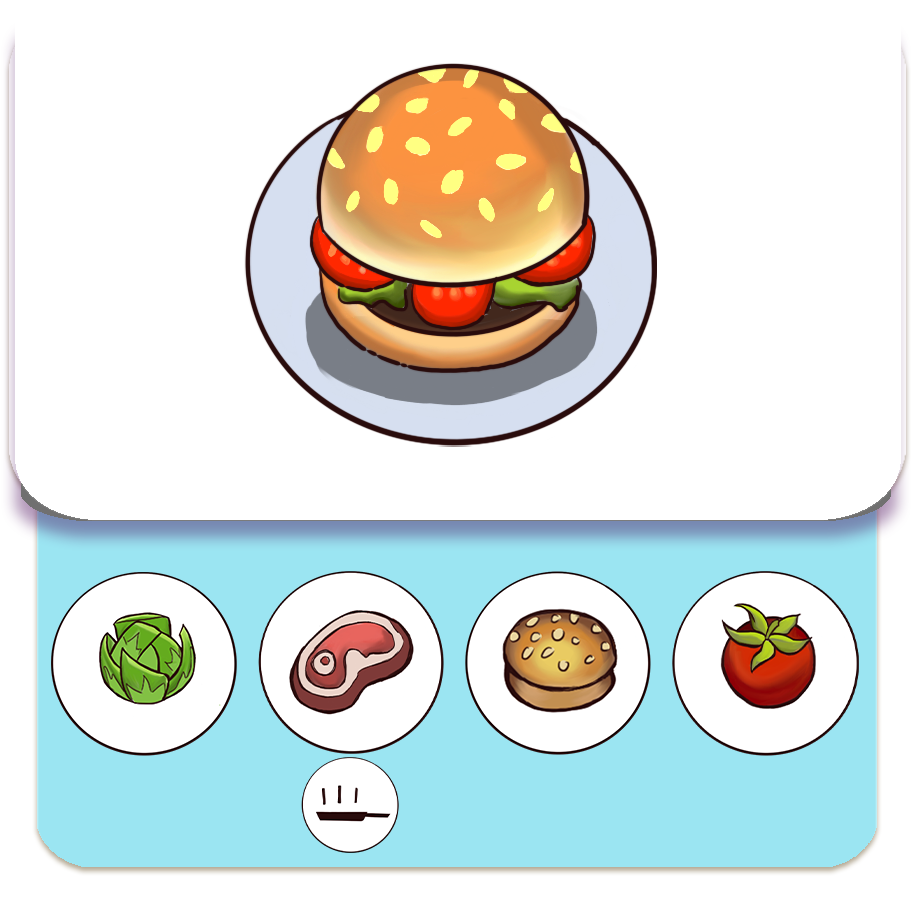
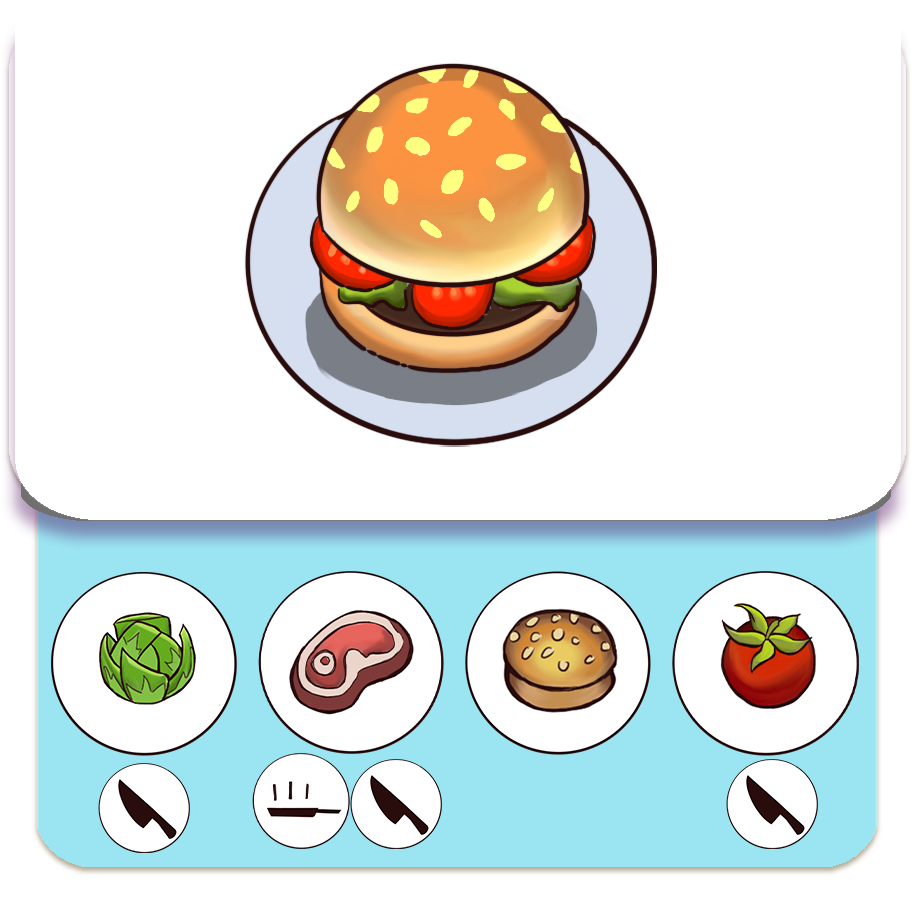
add อะไรวะ

Changed region(s): [[0.2763, 0.8262, 0.4912, 0.9486], [0.0921, 0.8262, 0.2149, 0.9486], [0.7982, 0.8262, 0.9211, 0.9486]]

diff --git a/src/game/scenes/Result.java b/src/game/scenes/Result.java
@@ -4,9 +4,11 @@ import base.Controller;
 import base.Scene;
 import base.WindowFrame;
 import utility.cm.CM;
+import utility.cm.CMFlag;
 import utility.loader.ImageLoader;
 
 import javax.swing.*;
+import java.awt.*;
 
 public class Result extends Scene {
 
@@ -32,10 +34,21 @@ public class Result extends Scene {
         exitGameBtn.setOpaque(false);
         exitGameBtn.setContentAreaFilled(false);
         exitGameBtn.setBorderPainted(false);
-
         cm.setActiveIcon(exitGameBtn, imageLoader.getIcon("exit"),imageLoader.getIcon("exitpress"));
         exitGameBtn.addActionListener(e -> getController().changeScene("SeletionLv"));
         add(exitGameBtn);
+
+        JLabel level = new JLabel();
+        level.setText("1");
+        level.setFont(new Font("Dimbo", Font.PLAIN, 75));
+        cm.setBounds(level, CM.grid(12, -1.5, CM.size(25, CMFlag.BY_H)));
+        add(level);
+
+
+
+
+
+
         ready();
     }
 

diff --git a/src/game/frames/CuttingFrame.java b/src/game/frames/CuttingFrame.java
@@ -40,12 +40,13 @@ public class CuttingFrame extends JFrame {
         cm.setBounds(food, CM.grid(40, 70, CM.size(20, CMFlag.BY_H)));
         contentPane.add(food);
 
+       
+
+
         JLabel cutDisplay = new JLabel();
         cm.setBounds(cutDisplay, CM.grid(90, 50, CM.size(48, CMFlag.BY_H)));
         contentPane.add(cutDisplay);
-        //setComponentZOrder(cutDisplay,1);
-
-
+        setComponentZOrder(cutDisplay,1);
 
 
         StateManager<Point> dragStartingPosition = Utility.useState(Point.class);

diff --git a/src/game/scenes/GameScene.java b/src/game/scenes/GameScene.java
@@ -31,6 +31,7 @@ public class GameScene extends Scene {
         imageLoader.add("Sent", "resources/gameScene2/Sent.png");
         imageLoader.add("bar", "resources/gameScene2/TableCenter.png");
         imageLoader.add("plate", "resources/gameScene2/Dish.png");
+        imageLoader.add("Cuttingbar","resources/cuttingFrame/cuttingBar.png");
 
 
         imageLoader.add("character", "resources/gameScene/Iconplayer.png");
